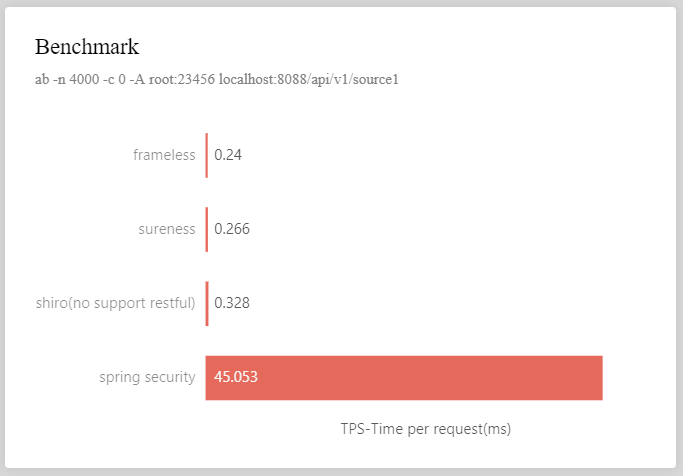
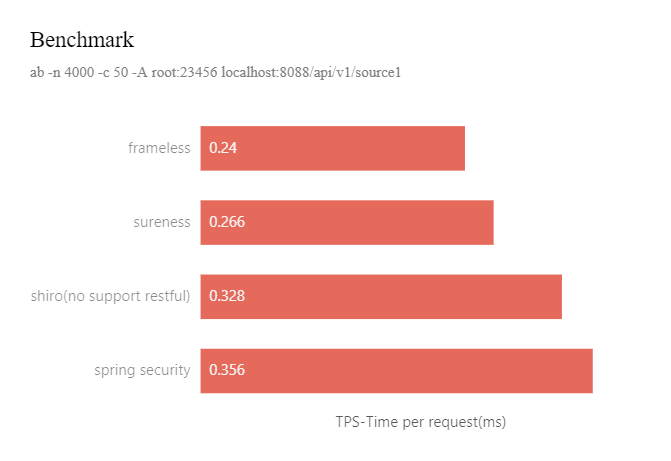
update spring security test use md4 (#1)

diff --git a/spring-security-demo/src/main/java/com/usthe/performance/springsecuritydemo/SecurityConfiguration.java b/spring-security-demo/src/main/java/com/usthe/performance/springsecuritydemo/SecurityConfiguration.java
@@ -7,7 +7,7 @@ import org.springframework.security.config.annotation.web.builders.HttpSecurity;
 import org.springframework.security.config.annotation.web.builders.WebSecurity;
 import org.springframework.security.config.annotation.web.configuration.WebSecurityConfigurerAdapter;
 import org.springframework.security.core.userdetails.User;
-import org.springframework.security.crypto.bcrypt.BCryptPasswordEncoder;
+import org.springframework.security.crypto.password.Md4PasswordEncoder;
 
 /**
  * @author tomsun28
@@ -21,8 +21,8 @@ public class SecurityConfiguration extends WebSecurityConfigurerAdapter {
         // 密码使用BCryptPasswordEncoder()方法验证，
         // 因此存储的密码也需要BCryptPasswordEncoder().encode(明文密码)方法加密密码
         auth.userDetailsService(username -> User.withUsername("root")
-                .password(new BCryptPasswordEncoder().encode("23456"))
-                .roles("role2").build()).passwordEncoder(new BCryptPasswordEncoder());
+                .password(new Md4PasswordEncoder().encode("23456"))
+                .roles("role2").build()).passwordEncoder(new Md4PasswordEncoder());
     }
 
     @Override

diff --git a/README.md b/README.md
@@ -24,10 +24,14 @@ The demo code for testing their performance.
 
 Compared with frameless protection, sureness only consumes a little application performance.  
 
-Benchmark test shows sureness to lose 0.026ms performance compared to frameless application, shiro lose 0.088ms, spring security lose 44.813ms.   
+Benchmark test shows sureness to lose 0.026ms performance compared to frameless application, shiro lose 0.088ms, spring security lose 0.116ms.   
 
-In contrast, sureness basically does not consume performance, and the performance (TPS loss) is 3 times that of shiro and 1700 times that of spring security.   
+In contrast, sureness basically does not consume performance, and the performance (TPS loss) is 3 times that of shiro and 4 times that of spring security.   
 
 **The performance gap will be further widened as the api matching chain increases.**       
 
+### Other    
 
+**When using spring security's default BCryptPasswordEncoder for encryption and decryption, spring security loses 44.813ms, and the sureness performance is 1700 times that of spring security**    
+
+Detail see [Another Benchmark](https://github.com/tomsun28/sureness-shiro-spring-security-benchmark/tree/bcrypt)    

diff --git a/README_CN.md b/README_CN.md
@@ -22,9 +22,17 @@
 
 ### 测试结论       
 
-**基准测试显示sureness对比无权限框架应用损耗0.026ms性能，shiro损耗0.088ms,spring security损耗44.813ms，
-相比之下sureness基本不消耗性能，且性能(TPS损耗)是shiro的3倍，spring security的1700倍**     
-**性能差距会随着api匹配链的增加而进一步拉大**  
+**基准测试显示sureness对比无权限框架应用损耗0.026ms性能，shiro损耗0.088ms,spring security损耗0.116ms，
+相比之下sureness基本不消耗性能，且性能(参考TPS损耗)是shiro的3倍，spring security的4倍**        
+
+**性能差距会随着api匹配链的增加而进一步拉大**    
+
+
+### 其它  
+
+**当使用spring security默认的BCryptPasswordEncoder加解密时，spring security损耗44.813ms，sureness性能为spring security的1700倍**    
+详见[另一个基准测试](https://github.com/tomsun28/sureness-shiro-spring-security-benchmark/tree/bcrypt)       
+
    
 
 
